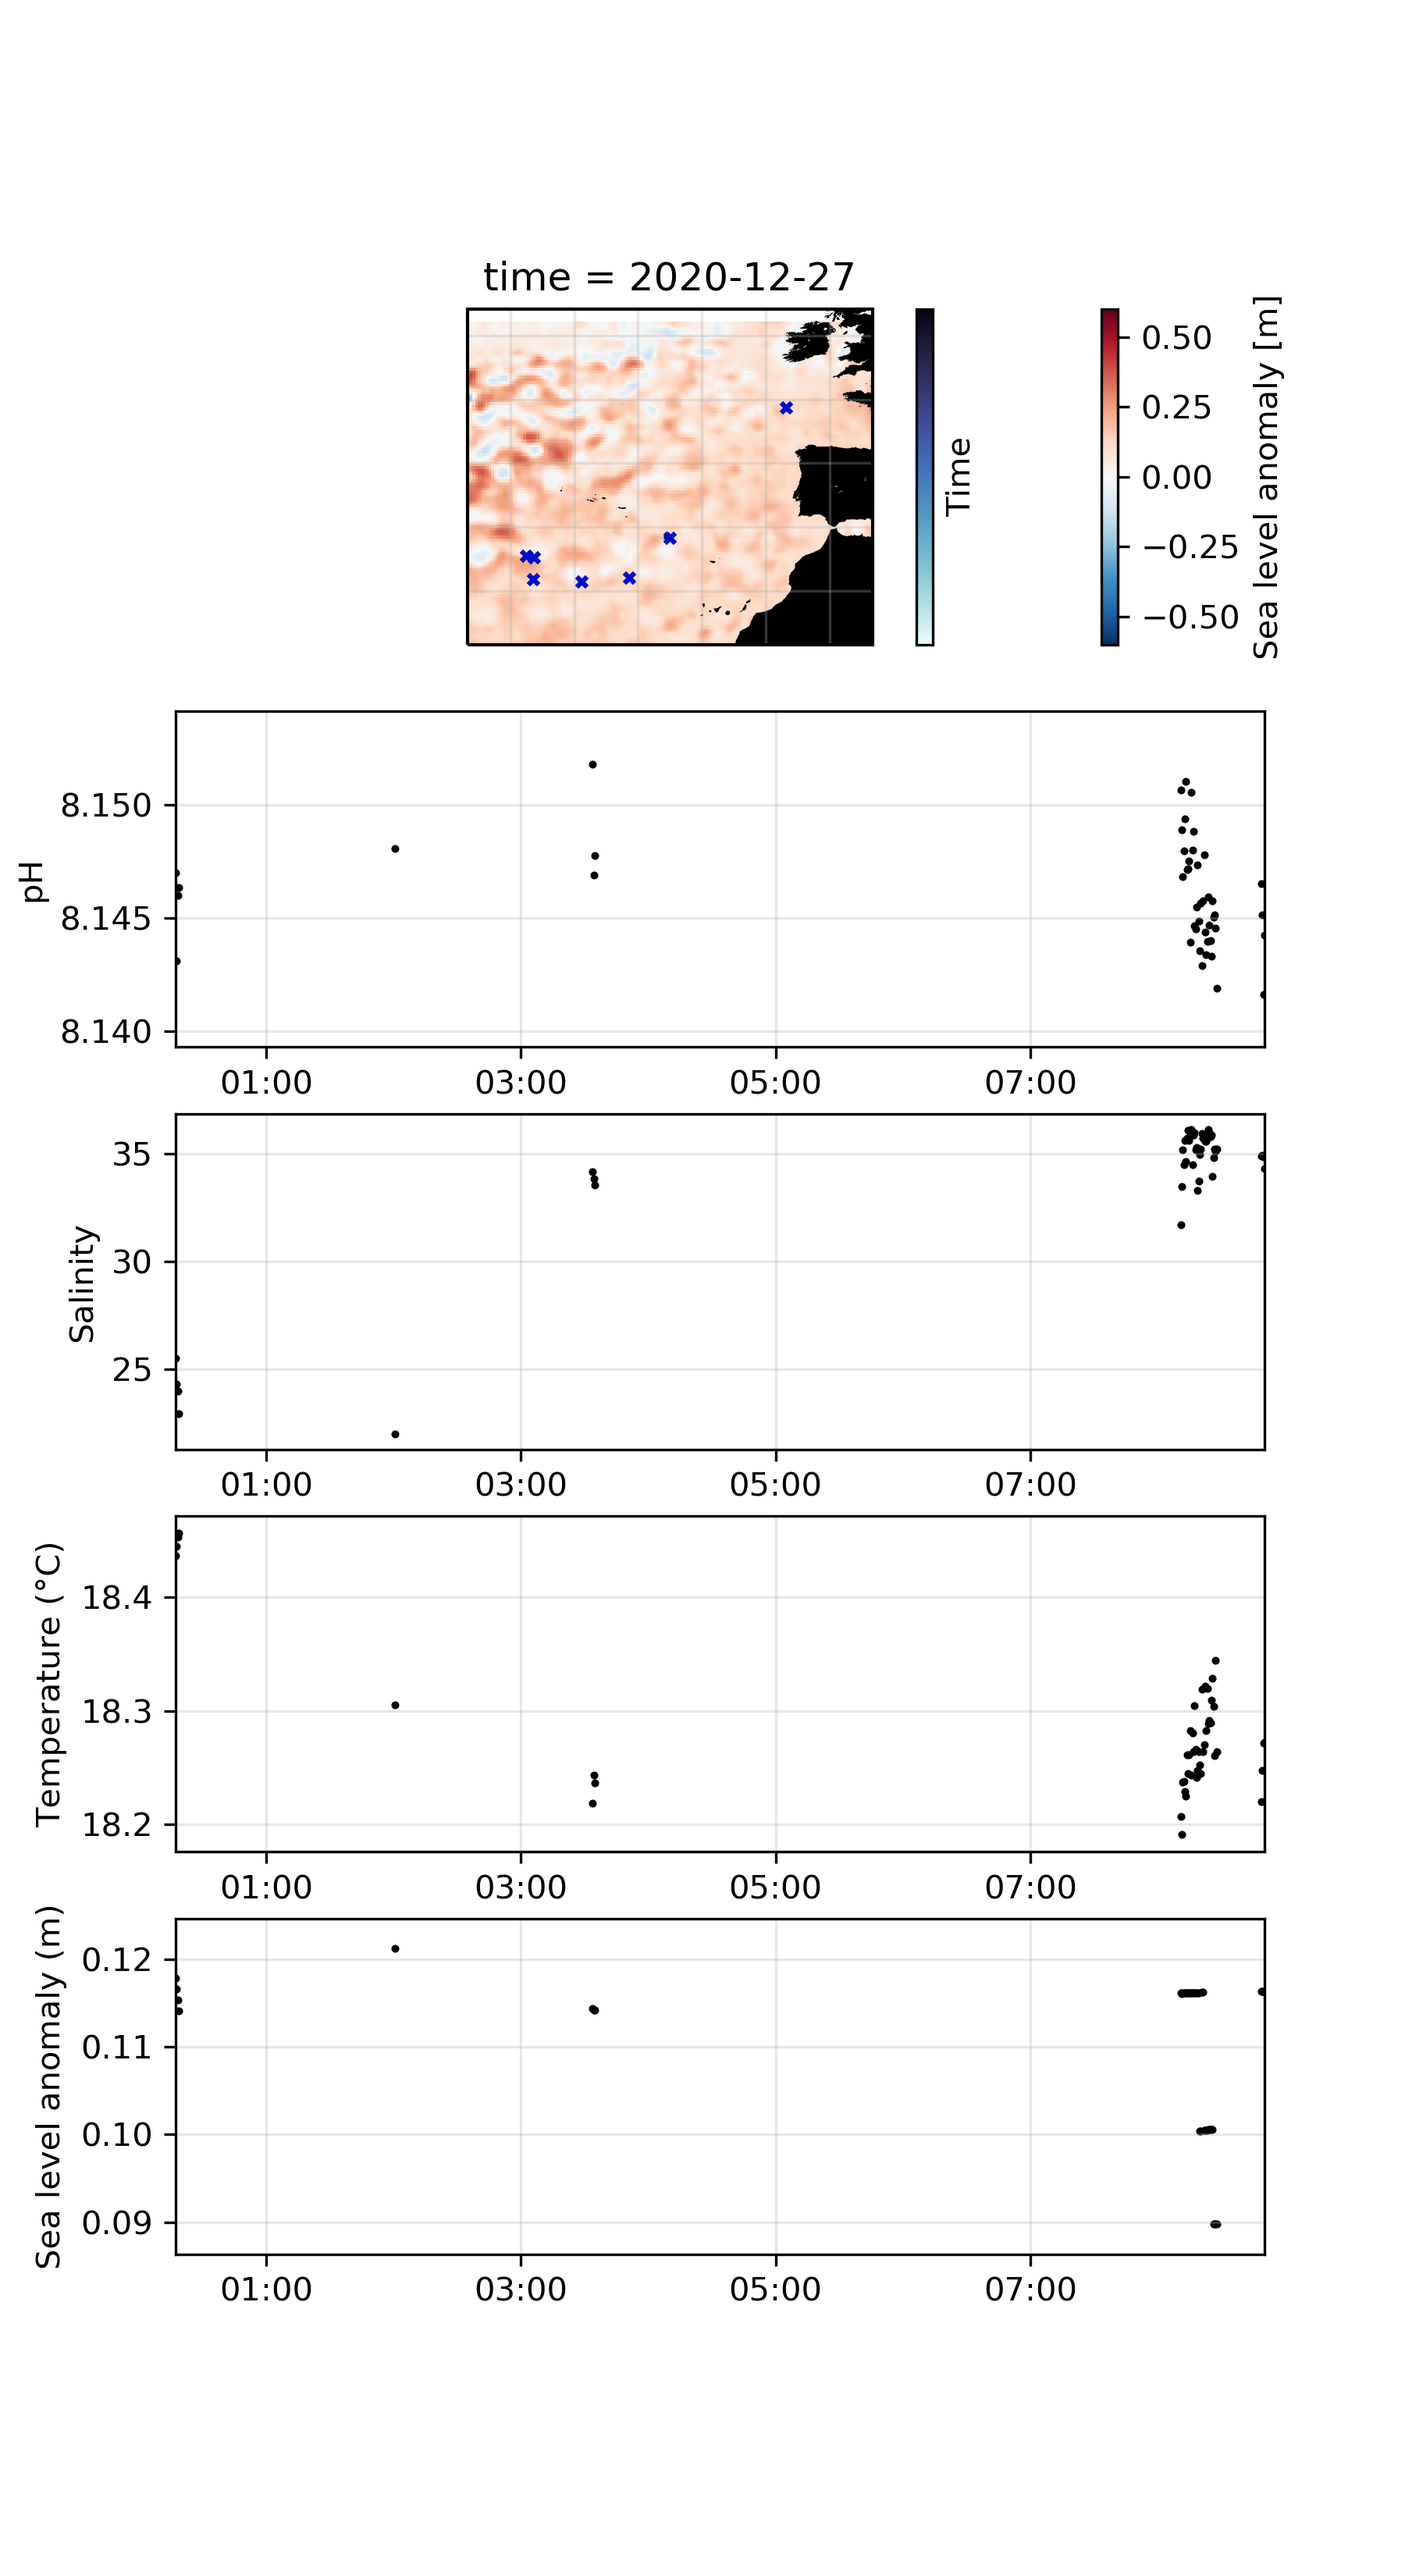
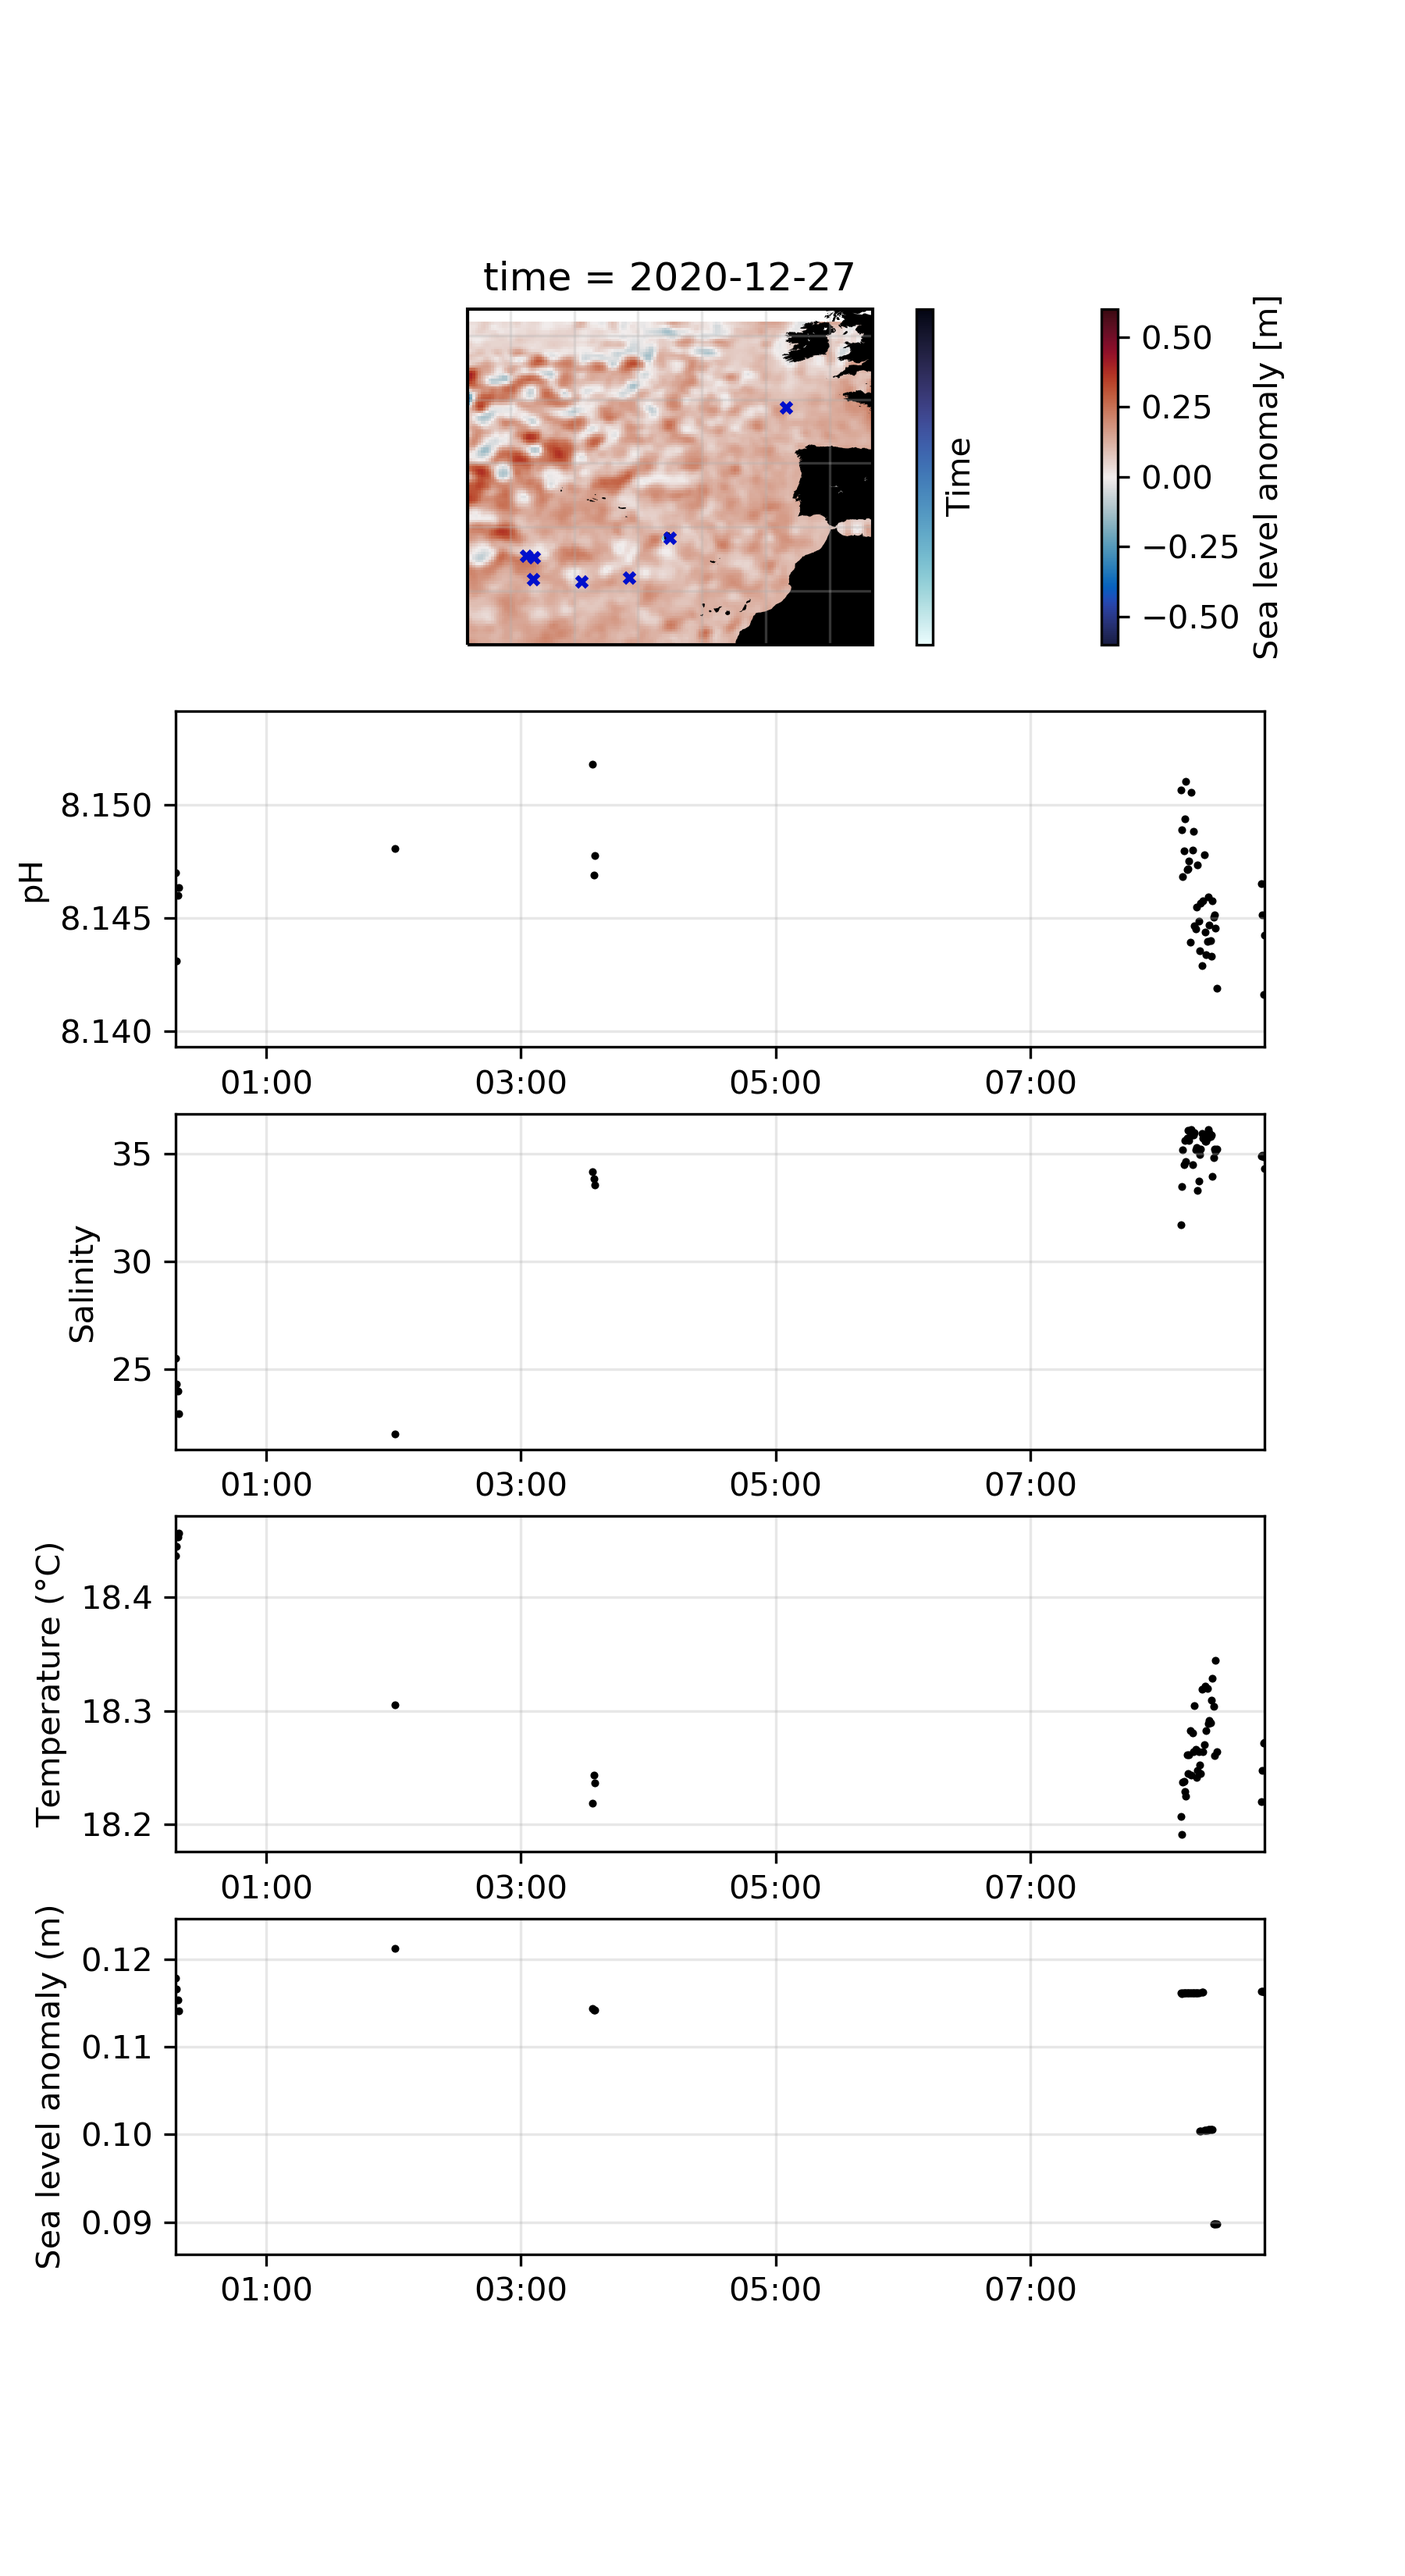
clean stats script

Changed region(s): [[0.3111, 0.1248, 0.6222, 0.2497], [0.7778, 0.1248, 0.8089, 0.2497]]

diff --git a/so279_stats.py b/so279_stats.py
@@ -1,0 +1,75 @@
+import pandas as pd, numpy as np
+from matplotlib import pyplot as plt
+import seaborn as sb
+from matplotlib import style
+from scipy import stats
+from sklearn.preprocessing import StandardScaler
+
+# import cruise data
+so279_df = pd.read_csv('./data/so279_df.csv')
+
+# remove rows with nan values (caused by SMB pump malfunctioning)
+L = ~np.isnan(so279_df['pH_insitu'])
+so279_df = so279_df[L]
+
+# create list of days
+so279_df['date_time'] = pd.to_datetime(so279_df.date_time)
+days_list = so279_df['date_time'].dt.day.unique()
+
+# create table to hold results per day
+so279_stats = pd.DataFrame({'day':days_list})
+so279_stats['n'] = np.nan
+so279_stats['sss_mean'] = np.nan
+so279_stats['sss_std'] = np.nan
+so279_stats['sst_mean'] = np.nan
+so279_stats['sst_std'] = np.nan
+so279_stats['ta_mean'] = np.nan
+so279_stats['ta_std'] = np.nan
+so279_stats['ph_insitu_mean'] = np.nan
+so279_stats['ph_insitu_std'] = np.nan
+so279_stats['chl_mean'] = np.nan
+so279_stats['chl_std'] = np.nan
+so279_stats['r2_sss'] = np.nan
+so279_stats['r2_sst'] = np.nan
+so279_stats['r2_ta'] = np.nan
+so279_stats['slope_sss'] = np.nan
+so279_stats['slope_sst'] = np.nan
+so279_stats['slope_ta'] = np.nan
+
+# statistical summary
+# stats_summary = so279_df.describe()
+
+# statistical visualization summary 
+# style.use('seaborn-whitegrid')
+# plt.rcParams['figure.figsize'] = (20,10)
+# sb.pairplot(so279_df)
+# plt.tight_layout()
+# plt.savefig('figs/stats_pairplot.png')
+
+# compute mean and std stats
+for day in days_list:
+    L = so279_df['date_time'].dt.day == day
+    so279_stats.loc[so279_stats.day==day, 'n'] = so279_df[L].SBE45_sal.count()
+    so279_stats.loc[so279_stats.day==day, 'sss_mean'] = so279_df[L].SBE45_sal.mean()
+    so279_stats.loc[so279_stats.day==day, 'sss_std'] = so279_df[L].SBE45_sal.std()
+    so279_stats.loc[so279_stats.day==day, 'sst_mean'] = so279_df[L].SBE38_water_temp.mean()
+    so279_stats.loc[so279_stats.day==day, 'sst_std'] = so279_df[L].SBE38_water_temp.std()
+    so279_stats.loc[so279_stats.day==day, 'ta_mean'] = so279_df[L].ta_est.mean()
+    so279_stats.loc[so279_stats.day==day, 'ta_std'] = so279_df[L].ta_est.std()
+    so279_stats.loc[so279_stats.day==day, 'ph_insitu_mean'] = so279_df[L].pH_insitu.mean()
+    so279_stats.loc[so279_stats.day==day, 'ph_insitu_std'] = so279_df[L].pH_insitu.std()
+    so279_stats.loc[so279_stats.day==day, 'chl_mean'] = so279_df[L].chl.mean()
+    so279_stats.loc[so279_stats.day==day, 'chl_std'] = so279_df[L].chl.std()
+    so279_stats.loc[so279_stats.day==day, "r2_sss"] = stats.linregress(so279_df[L]['SBE45_sal'], so279_df[L]['pH_insitu'])[2]
+    so279_stats.loc[so279_stats.day==day, "r2_sst"] = stats.linregress(so279_df[L]['SBE38_water_temp'], so279_df[L]['pH_insitu'])[2]
+    so279_stats.loc[so279_stats.day==day, "r2_ta"] = stats.linregress(so279_df[L]['ta_est'], so279_df[L]['pH_insitu'])[2]
+    so279_stats.loc[so279_stats.day==day, "slope_sss"] = stats.linregress(so279_df[L]['SBE45_sal'], so279_df[L]['pH_insitu'])[0]
+    so279_stats.loc[so279_stats.day==day, "slope_sst"] = stats.linregress(so279_df[L]['SBE38_water_temp'], so279_df[L]['pH_insitu'])[0]
+    so279_stats.loc[so279_stats.day==day, "slope_ta"] = stats.linregress(so279_df[L]['ta_est'], so279_df[L]['pH_insitu'])[0]
+    print(day)
+
+# compute pH uncertainty (weather/climate goal from ICOS)
+pH_uncertainty = round(so279_stats.ph_insitu_std.median(),3)
+ta_est_uncertainty = round(so279_stats.ta_std.median())
+
+

diff --git a/test_std_log.py b/test_std_log.py
@@ -1,0 +1,61 @@
+# MLR not working
+# # perform linear regression on each variable pair with pH (eg. pH vs chl)
+# for day in days_list:
+#     L = so279_df['date_time'].dt.day == day
+#     so279_stats.loc[so279_stats.day==day,
+#         "r2_sss"] = stats.linregress(so279_df[L]['SBE45_sal'],
+#                                            so279_df[L]['pH_insitu'])[2]
+#     so279_stats.loc[so279_stats.day==day,
+#     "r2_sst"] = stats.linregress(so279_df[L]['SBE45_sal'],
+#                                        so279_df[L]['pH_insitu'])[2]
+#     so279_stats.loc[so279_stats.day==day,
+#     "r2_ta"] = stats.linregress(so279_df[L]['ta_est'],
+#                                        so279_df[L]['pH_insitu'])[2]                                          
+#     so279_stats.loc[so279_stats.day==day,
+#             "r2_chl"] = stats.linregress(so279_df[L]['chl'],
+#                                                so279_df[L]['pH_insitu'])[2]
+
+# # find covariance for each variable pair with pH (eg. pH vs chl)
+# for day in days_list:
+#     L = so279_df['date_time'].dt.day == day
+#     so279_stats.loc[so279_stats.day==day,
+#         "cov_sss"] = cov(so279_df[L]['SBE45_sal'],
+#                                            so279_df[L]['pH_insitu'])
+#     so279_stats.loc[so279_stats.day==day,
+#     "r2_sst"] = stats.linregress(so279_df[L]['SBE45_sal'],
+#                                        so279_df[L]['pH_insitu'])
+#     so279_stats.loc[so279_stats.day==day,
+#     "r2_ta"] = stats.linregress(so279_df[L]['ta_est'],
+#                                        so279_df[L]['pH_insitu'])                                
+#     so279_stats.loc[so279_stats.day==day,
+#             "r2_chl"] = stats.linregress(so279_df[L]['chl'],
+#                                                so279_df[L]['pH_insitu'])
+                            
+
+# WORKING BUT NOT DETAILED ENOUGH
+# # perform log transformation of data
+# so279_df['log_ph'] = np.log2(so279_df['pH_insitu'])
+# so279_df['log_sss'] = np.log2(so279_df['SBE45_sal'])
+# so279_df['log_sst'] = np.log2(so279_df['SBE38_water_temp'])
+# so279_df['log_ta'] = np.log2(so279_df['ta_est'])
+
+# # perform standardization so mean = 0 std deviation = 1
+# so279_df['std_ph'] = preprocessing.scale(so279_df['log_ph'])
+# so279_df['std_sss'] = preprocessing.scale(so279_df['log_sss'])
+# so279_df['std_sst'] = preprocessing.scale(so279_df['log_sst'])
+# so279_df['std_ta'] = preprocessing.scale(so279_df['log_ta'])
+
+# standardize the data to remove bias of different scales on which variables were measured
+# normalize variables individually so that μ = 0 and σ = 1 before doing MLR
+# test with ph and sst data
+X = np.array([so279_df['pH_insitu'], so279_df['SBE45_sal']])
+
+# the scaler object (model)
+scaler = StandardScaler()
+
+# fit and transform the data
+scaled_data = scaler.fit_transform(X) 
+
+# check on mean and std
+mean = scaled_data.mean(axis = 0)
+std = scaled_data.std(axis = 0)

diff --git a/so279_mlr.py b/so279_mlr.py
@@ -1,0 +1,61 @@
+import pandas as pd, numpy as np
+from matplotlib import pyplot as plt
+import seaborn as sb
+import matplotlib.pyplot as plt
+from matplotlib import style
+import statsmodels.api as sm
+from termcolor import colored as cl
+
+# import cruise data
+so279_df = pd.read_csv('./data/so279_df.csv')
+
+# create list of days
+so279_df['date_time'] = pd.to_datetime(so279_df.date_time)
+days_list = so279_df['date_time'].dt.day.unique()
+
+# create table to hold results
+so279_stats = pd.DataFrame({'day':days_list})
+so279_stats['sss_mean'] = np.nan
+so279_stats['sss_std'] = np.nan
+so279_stats['sst_mean'] = np.nan
+so279_stats['sst_std'] = np.nan
+so279_stats['ta_mean'] = np.nan
+so279_stats['ta_std'] = np.nan
+so279_stats['ph_insitu_mean'] = np.nan
+so279_stats['ph_insitu_std'] = np.nan
+so279_stats['chl_mean'] = np.nan
+so279_stats['chl_std'] = np.nan
+
+# create df with only variables for mlr
+mlr_df = pd.DataFrame()
+mlr_df['ph'] = so279_df['pH_insitu']
+mlr_df['sss'] = so279_df['SBE45_sal']
+mlr_df['sst'] = so279_df['SBE38_water_temp']
+mlr_df['ta'] = so279_df['ta_est']
+mlr_df['chl'] = so279_df['chl']
+
+mlr_df = mlr_df.dropna()
+
+mlr_df['ph'] = mlr_df['ph'].astype(int)
+mlr_df['sss'] = mlr_df['sss'].astype(int)
+mlr_df['sst'] = mlr_df['sst'].astype(int)
+mlr_df['ta'] = mlr_df['ta'].astype(int)
+mlr_df['chl'] = mlr_df['chl'].astype(int)
+
+# MLR model - stats model
+# variables
+X1_var = mlr_df[['sss','sst','ta','chl']] # independent variables
+y_var = mlr_df['ph'] # dependent variable
+
+# stats model
+sm_X1_var = sm.add_constant(X1_var)
+
+sm_X1_var = sm_X1_var.dropna()
+mlr_df = mlr_df['ph'].values.reshape(-1,1)
+
+mlr_model = sm.OLS(y_var, sm_X1_var)
+mlr_reg = mlr_model.fit()
+
+# model summary
+print(cl(mlr_reg.summary(), attrs = ['bold']))
+

diff --git a/test_pca_analysis.py b/test_pca_analysis.py
@@ -1,0 +1,57 @@
+import pandas as pd, numpy as np
+from sklearn.preprocessing import StandardScaler
+from sklearn.decomposition import PCA
+from matplotlib import pyplot as plt
+
+# import cruise data
+so279_df = pd.read_csv('./data/so279_df.csv')
+
+# compute PCA analysis
+features = ['SBE45_sal', 'SBE38_water_temp','pH_insitu']
+
+# separating out the features
+x = so279_df.loc[:, features].values
+
+# separating out the target
+y = so279_df.loc[:,['filename']].values
+
+# standardizing the features
+x = StandardScaler().fit_transform(x)
+
+# drop nan inside x
+def dropna(arr, *args, **kwarg):
+    assert isinstance(arr, np.ndarray)
+    dropped=pd.DataFrame(arr).dropna(*args, **kwarg).values
+    if arr.ndim==1:
+        dropped=dropped.flatten()
+    return dropped
+
+x = dropna(x)
+
+# run PCA
+pca = PCA(n_components=2)
+principalComponents = pca.fit_transform(x)
+principalDf = pd.DataFrame(data= principalComponents,
+                          columns = ['principal component 1',
+                                     'principal component 2'])
+
+finalDf = pd.concat([principalDf, so279_df[['filename']]], axis=1)
+
+# vizualize 2D Projection
+fig = plt.figure(figsize = (8,8))
+ax = fig.add_subplot(1,1,1) 
+ax.set_xlabel('Principal Component 1', fontsize = 15)
+ax.set_ylabel('Principal Component 2', fontsize = 15)
+ax.set_title('2 component PCA', fontsize = 20)
+targets = ['2020-12-08_204002_SO279_STN1_test']
+colors = ['r', 'g', 'b']
+for target, color in zip(targets,colors):
+    indicesToKeep = finalDf['filename'] == target
+    ax.scatter(finalDf.loc[indicesToKeep, 'principal component 1']
+               , finalDf.loc[indicesToKeep, 'principal component 2']
+               , c = color
+               , s = 50)
+ax.legend(targets)
+ax.grid()
+
+

diff --git a/so279_transect_days.py b/so279_transect_days.py
@@ -15,7 +15,7 @@ station_coord = pd.read_excel('./data/stations_coordinates.xlsx')
 # import cruise data
 so279_df = pd.read_csv('./data/so279_df.csv')
 
-# create list of files
+# create list of days
 so279_df['date_time'] = pd.to_datetime(so279_df.date_time)
 days_list = so279_df['date_time'].dt.day.unique()
 
@@ -60,7 +60,7 @@ for day in days_list:
         transform=ccrs.PlateCarree(),
         vmin=vmin,
         vmax=vmax,
-        cmap='RdBu_r',
+        cmap='cmo.balance',
         ax=ax1
     )
     
